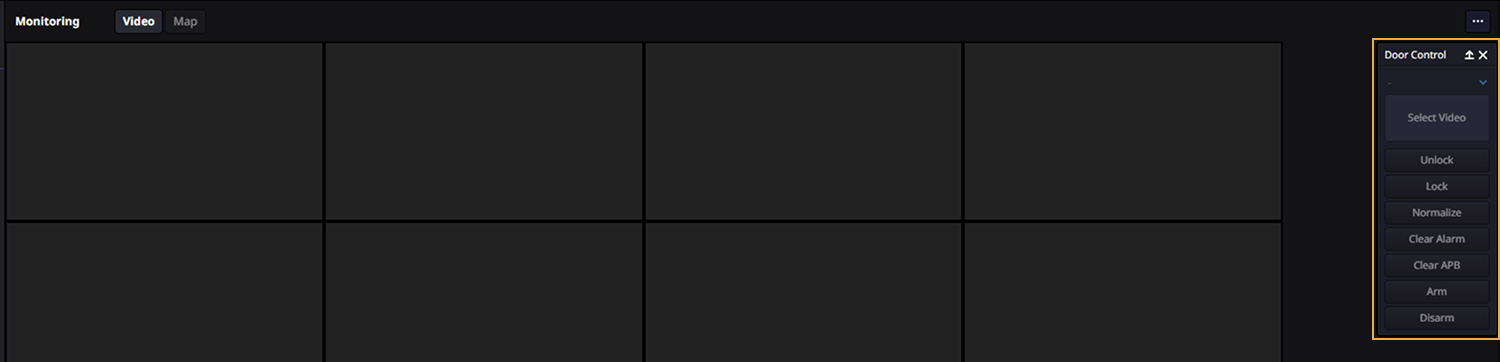
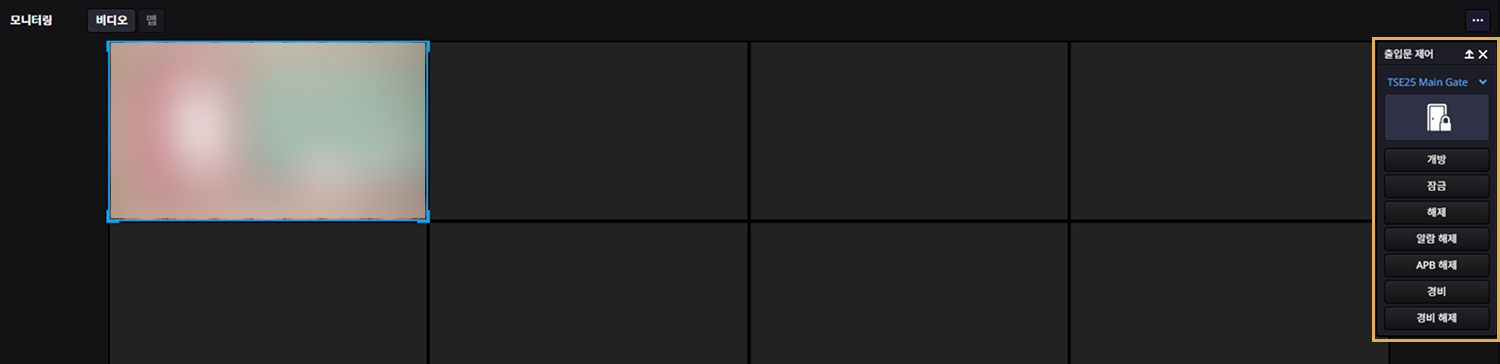
문서 수정: 비디오 모니터링 기능 추가 및 출입문 제어 도구 설명 개선

diff --git a/sidebars.js b/sidebars.js
@@ -103,6 +103,7 @@ const sidebars = {
             'platform/biostar_x/control-elevator',
             'platform/biostar_x/check-zone-status',
             'platform/biostar_x/control-zone',
+            'platform/biostar_x/monitoring-video',
           ]
         }
       ],
